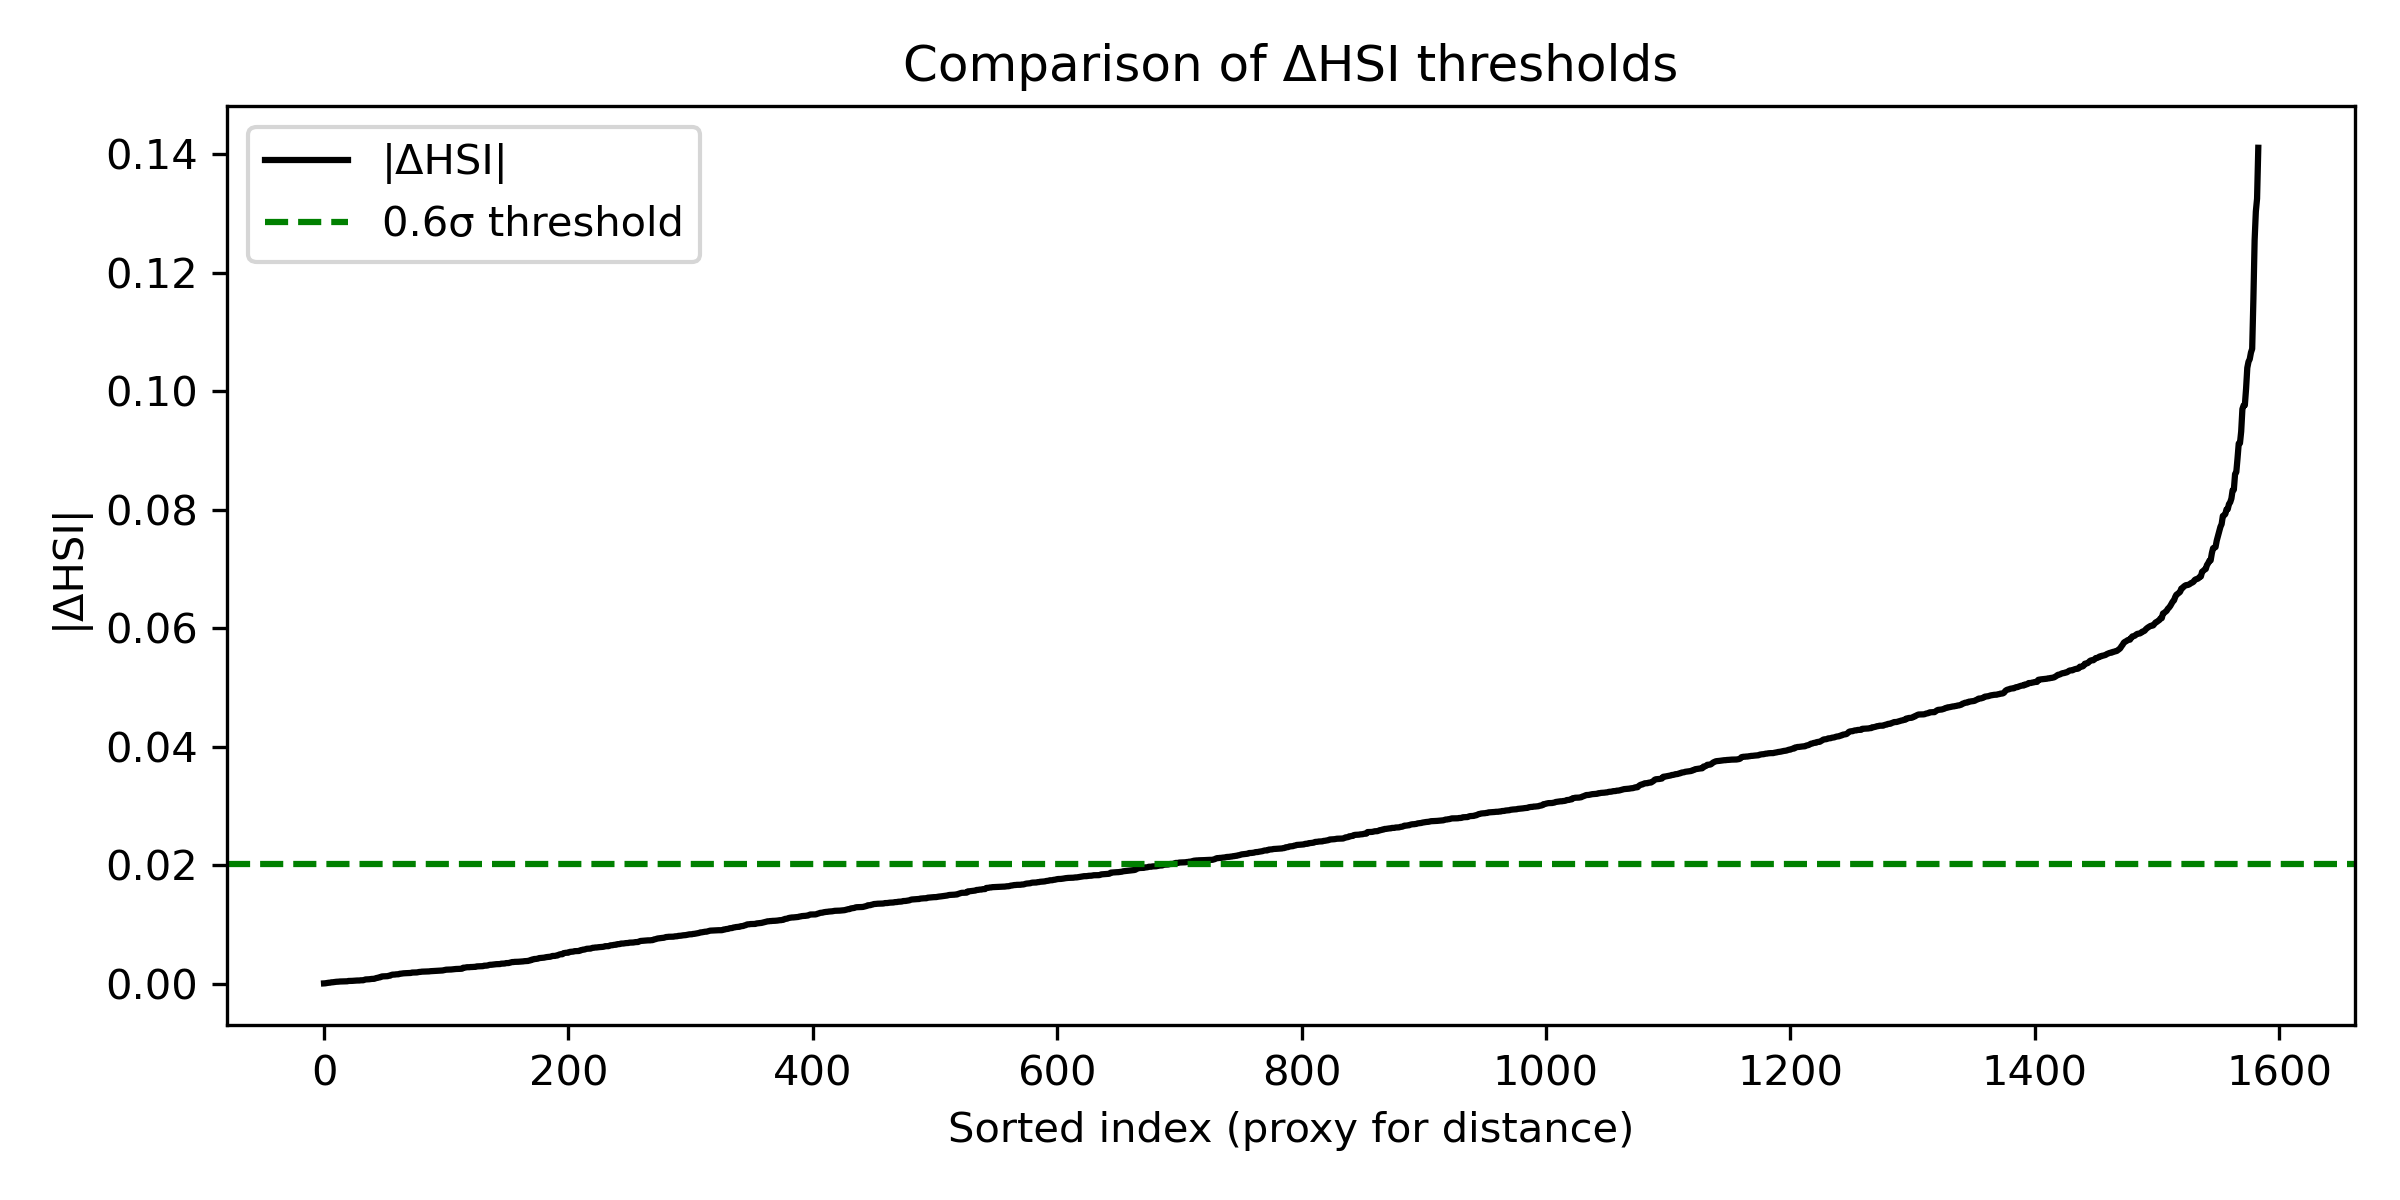
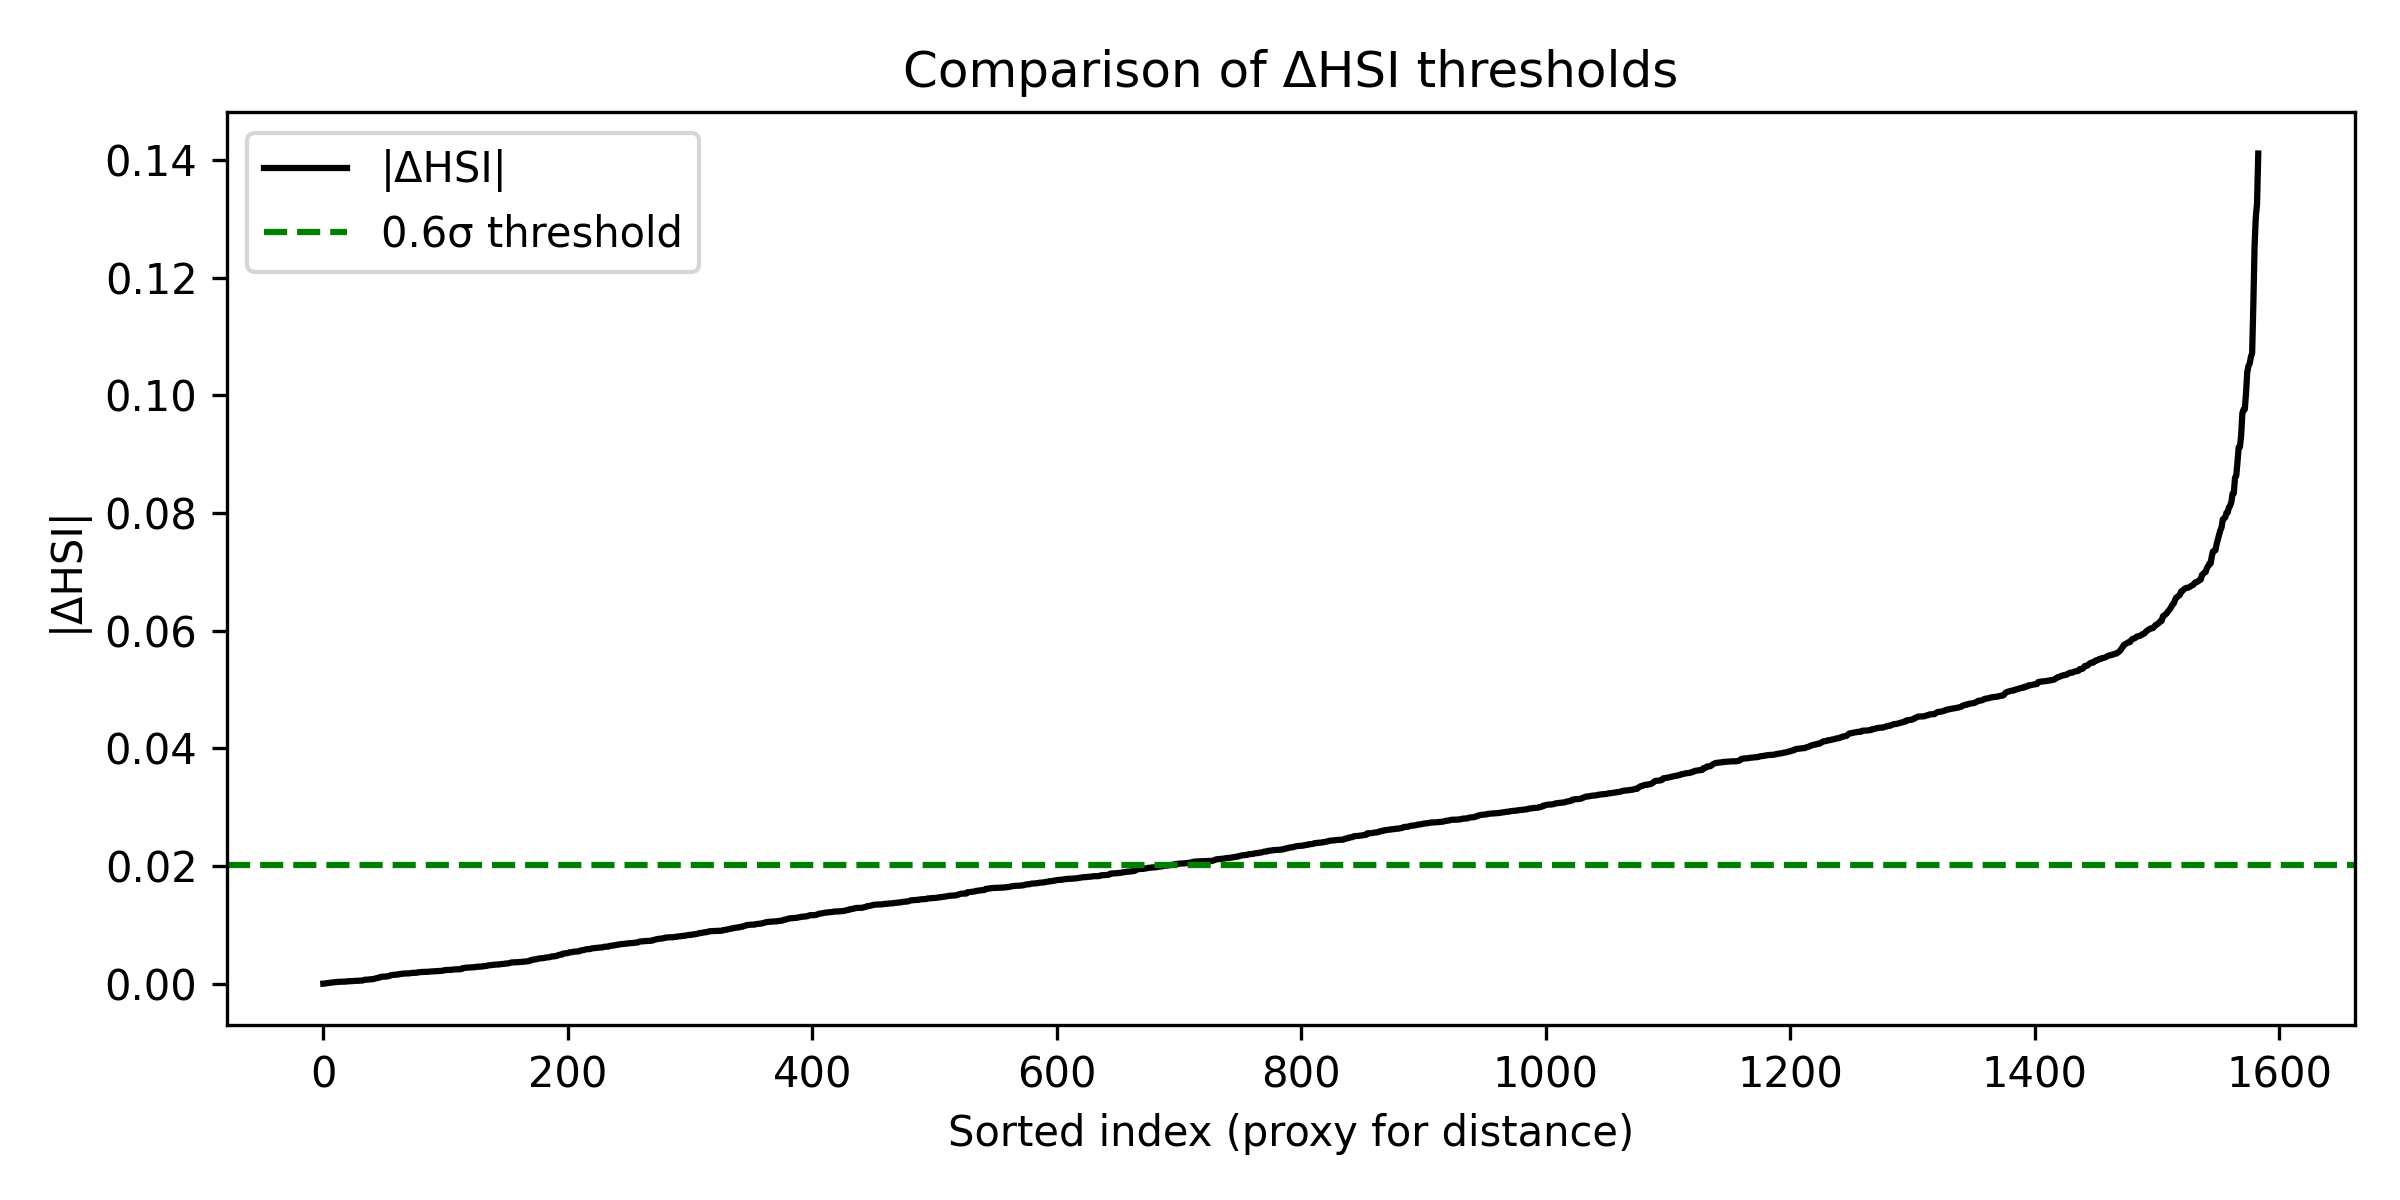
newf

diff --git a/utils/forecast.py b/utils/forecast.py
@@ -160,6 +160,7 @@ def predict_future_non_metal_field_for_station(
         model_path = PROJECT_DIR / "model" / "output" / "hk_cobia_finetuned.pkl"
     elif species == "oyster":
         model_path = PROJECT_DIR / "model" / "output" / "hk_oyster_finetuned.pkl"
+        
     # ===== LOAD MODEL + METADATA =====
     model = joblib.load(model_path)
     input_cols, features = joblib.load(

diff --git a/utils/hsi.py b/utils/hsi.py
@@ -2,7 +2,7 @@ import numpy as np
 import pandas as pd
 import pathlib
 import matplotlib.pyplot as plt
-
+import seaborn as sns
 
 def compute_hsi(df_forecast, species):
     """
